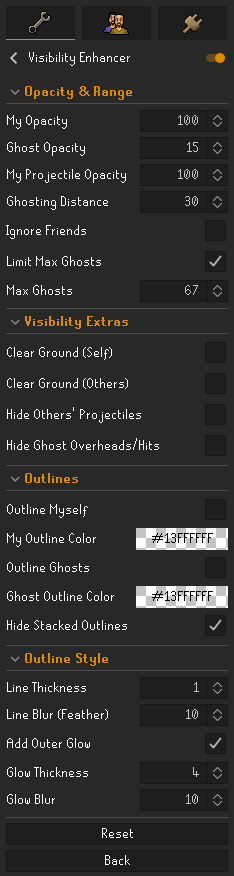
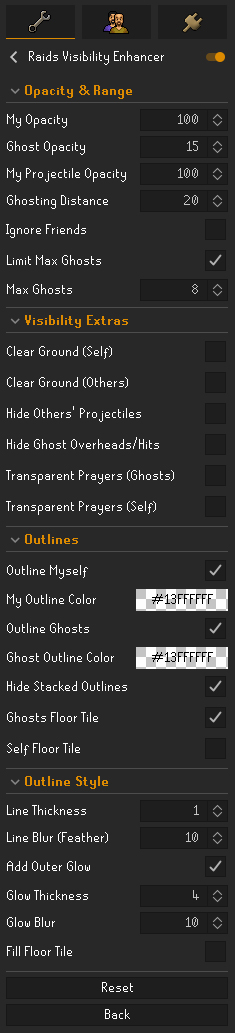
Rename and Separated tile into two checkmarks

diff --git a/src/main/java/com/visibilityenhancer/VisibilityEnhancerConfig.java b/src/main/java/com/visibilityenhancer/VisibilityEnhancerConfig.java
@@ -128,13 +128,22 @@ public interface VisibilityEnhancerConfig extends Config
 	default boolean hideGhostExtras() { return false; }
 
 	@ConfigItem(
-			keyName = "customTransparentPrayers",
-			name = "Custom Transparent Prayers",
+			keyName = "customTransparentPrayers", // Kept for backwards compatibility
+			name = "Transparent Prayers (Ghosts)",
 			position = 5,
 			section = extrasSection,
-			description = "Hides native overheads and HP bars, replacing them with transparent prayer sprites"
+			description = "Hides native overheads and HP bars for ghosts, replacing them with transparent prayer sprites"
 	)
-	default boolean customTransparentPrayers() { return false; }
+	default boolean othersTransparentPrayers() { return false; }
+
+	@ConfigItem(
+			keyName = "selfTransparentPrayers",
+			name = "Transparent Prayers (Self)",
+			position = 6,
+			section = extrasSection,
+			description = "Hides your native overheads and HP bars, replacing them with transparent prayer sprites"
+	)
+	default boolean selfTransparentPrayers() { return false; }
 
 
 	// --- OUTLINE SECTION ---
@@ -193,13 +202,22 @@ public interface VisibilityEnhancerConfig extends Config
 	default boolean hideStackedOutlines() { return true; }
 
 	@ConfigItem(
-			keyName = "useFloorTileOutline",
-			name = "Use Floor Tile Outline",
+			keyName = "useFloorTileOutline", // Kept the same so current users keep their setting
+			name = "Ghosts Floor Tile",
 			position = 6,
 			section = outlineSection,
-			description = "Draws a square on the floor instead of outlining the 3D body"
+			description = "Draws a square on the floor instead of outlining the 3D body for ghosted players"
 	)
-	default boolean useFloorTileOutline() { return false; }
+	default boolean othersUseFloorTileOutline() { return false; }
+
+	@ConfigItem(
+			keyName = "selfUseFloorTileOutline",
+			name = "Self Floor Tile",
+			position = 7,
+			section = outlineSection,
+			description = "Draws a square on the floor instead of outlining the 3D body for your own character"
+	)
+	default boolean selfUseFloorTileOutline() { return false; }
 
 
 	// --- OUTLINE STYLE SECTION ---

diff --git a/src/main/java/com/visibilityenhancer/VisibilityEnhancerOverlay.java b/src/main/java/com/visibilityenhancer/VisibilityEnhancerOverlay.java
@@ -76,7 +76,7 @@ public class VisibilityEnhancerOverlay extends Overlay
 		// --- Outline Rendering: Local Player ---
 		if (local != null && config.selfOutline())
 		{
-			if (config.useFloorTileOutline())
+			if (config.selfUseFloorTileOutline())
 			{
 				renderFloorTile(graphics, local, config.selfOutlineColor());
 			}
@@ -91,7 +91,7 @@ public class VisibilityEnhancerOverlay extends Overlay
 		{
 			renderedTiles.clear();
 			boolean hideStacked = config.hideStackedOutlines();
-			boolean useFloorTile = config.useFloorTileOutline();
+			boolean useFloorTile = config.othersUseFloorTileOutline(); // Updated method call
 			Color othersColor = config.othersOutlineColor();
 
 			// OPTIMIZATION: Clear and reuse list instead of instantiating new ArrayList
@@ -135,22 +135,23 @@ public class VisibilityEnhancerOverlay extends Overlay
 		}
 
 		// --- Transparent Prayer & Text Rendering ---
-		boolean customPrayers = config.customTransparentPrayers();
+		boolean selfCustomPrayers = config.selfTransparentPrayers();
+		boolean othersCustomPrayers = config.othersTransparentPrayers();
 		boolean hideGhostExtras = config.hideGhostExtras();
 
 		// Handle local player
-		if (customPrayers && local != null)
+		if (selfCustomPrayers && local != null)
 		{
 			drawTransparentPrayer(graphics, local, 100);
 			drawOverheadText(graphics, local);
 		}
 
 		// Handle ghosted players
-		if (customPrayers || hideGhostExtras)
+		if (othersCustomPrayers || hideGhostExtras)
 		{
 			for (Player player : plugin.getGhostedPlayers())
 			{
-				if (customPrayers)
+				if (othersCustomPrayers)
 				{
 					drawTransparentPrayer(graphics, player, config.playerOpacity());
 				}

diff --git a/src/main/java/com/visibilityenhancer/VisibilityEnhancer.java b/src/main/java/com/visibilityenhancer/VisibilityEnhancer.java
@@ -314,7 +314,10 @@ public class VisibilityEnhancer extends Plugin
 			if (drawingUI)
 			{
 				// FORCE FALSE: Completely kills native prayers, HP bars, AND native text
-				if (config.customTransparentPrayers() && (isGhost || isLocal))
+				boolean hideSelfUI = isLocal && config.selfTransparentPrayers();
+				boolean hideGhostUI = isGhost && config.othersTransparentPrayers();
+
+				if (hideSelfUI || hideGhostUI)
 				{
 					return false;
 				}
